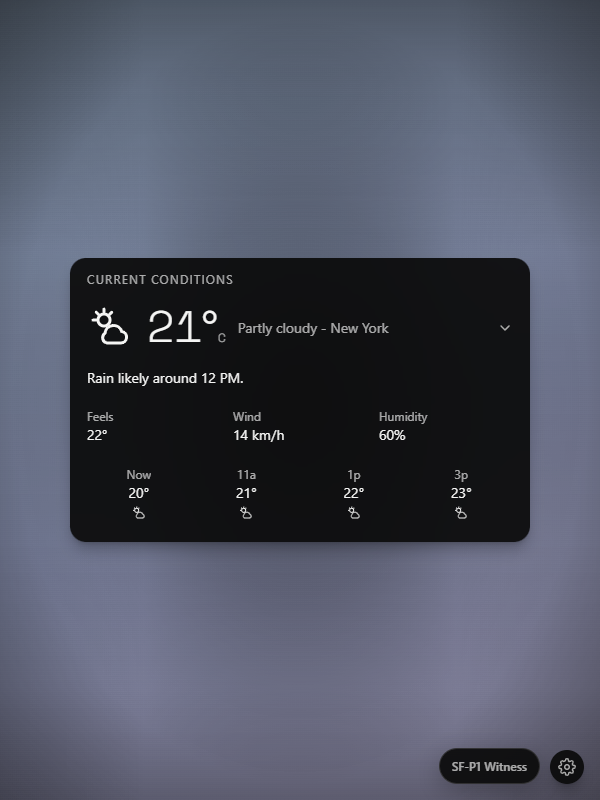
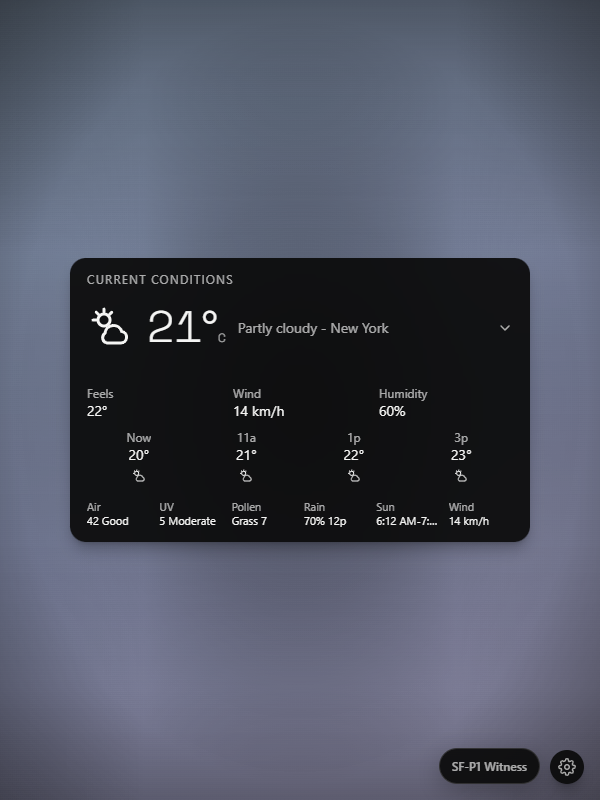
fix: fit narrow Full Weather

diff --git a/src/newtab/index.css b/src/newtab/index.css
@@ -113,7 +113,10 @@
   }
   .tier-frame--full .weather-tier-summary [data-weather-summary-metrics],
   .tier-frame--full .weather-tier-summary [data-weather-summary-hourly] > span {
-    min-height: 3rem;
+    min-height: 2.5rem;
+  }
+  .tier-frame--full .weather-tier-summary [data-weather-summary-metrics] {
+    min-height: 2.25rem;
   }
 }
 .weather-tier-state {
